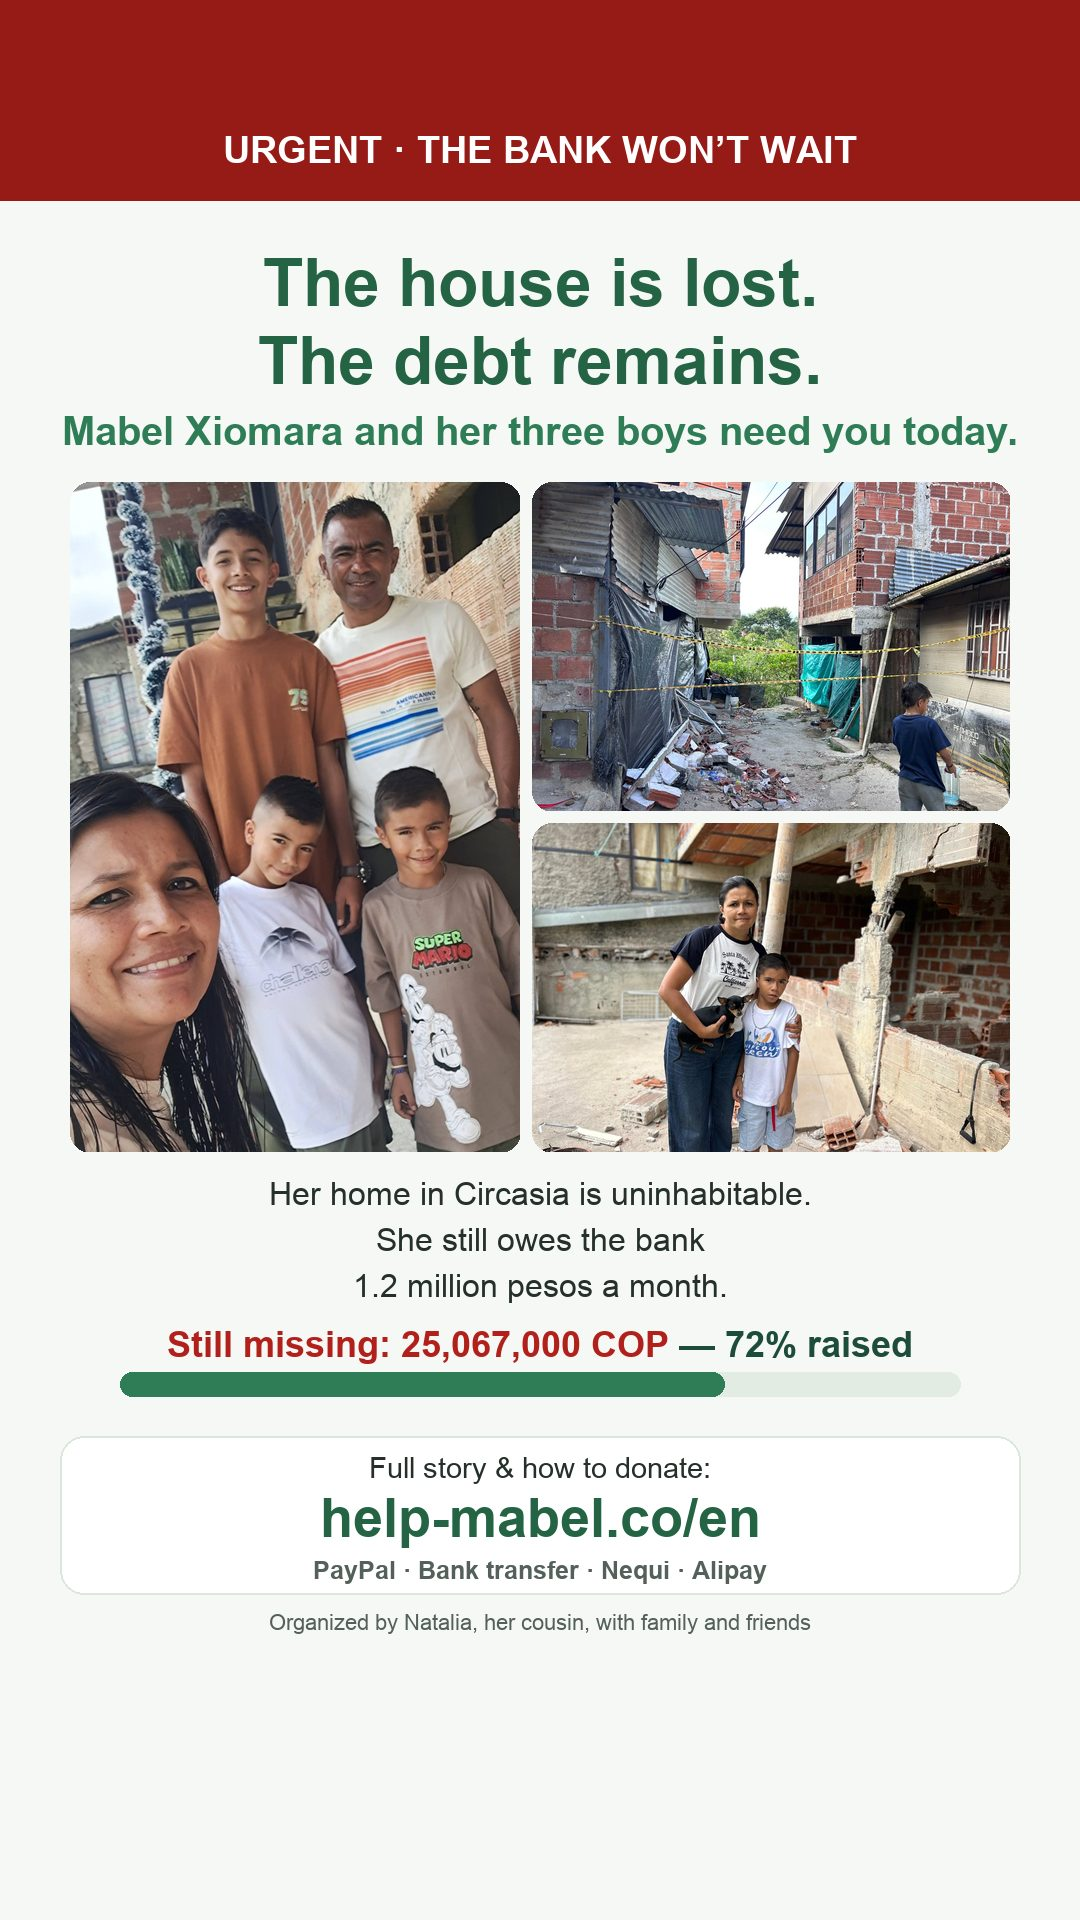
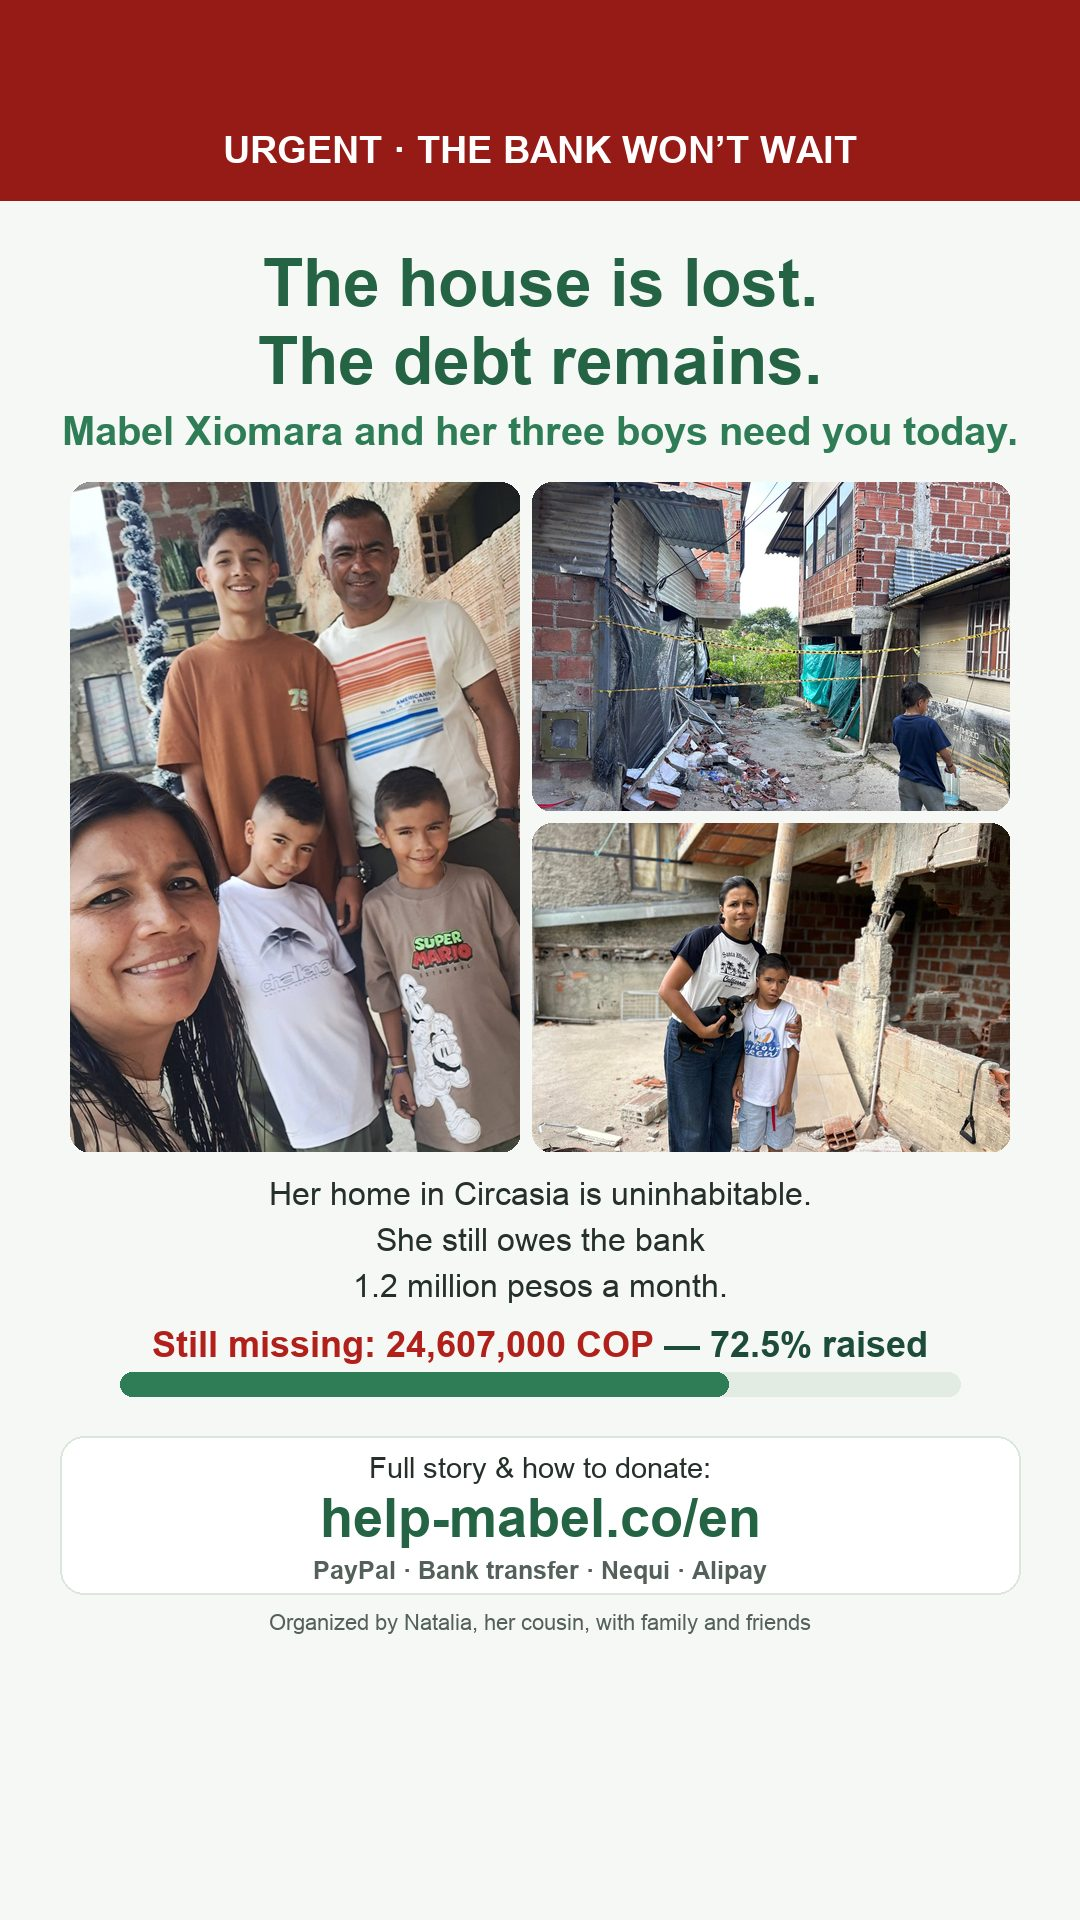
v=30: raised 64.793.000 (72,5 %; faltan $24.607.000 ≈ €6.840) — hoja del 26-ago, donaciones locales en Colombia; 12 gráficos regenerados incl. stories (?v=9)

Changed region(s): [[0.1222, 0.6875, 0.6111, 0.7188], [0.6417, 0.6875, 0.8556, 0.7188]]

diff --git a/de/index.html b/de/index.html
@@ -107,10 +107,10 @@
 </header>
 
 <div class="progress-card">
-  <div class="raised">Noch <span id="ms-remaining">6.970 € (25.067.000 COP)</span> bis <span id="ms-label">Mabel schuldenfrei ist</span></div>
-  <div class="bar"><div class="fill" id="bar-fill" style="width:72%"></div></div>
-  <div class="goal-note" id="ms-line"><strong>72 % des Weges</strong> zum nächsten Ziel: 89.400.000 COP</div>
-  <div class="goal-note" id="total-line" style="margin-top:6px">Gemeinsam haben wir schon <span id="raised-pct">72 %</span> der <span id="first-goal">89,4 Millionen COP (≈ 24.850 €)</span> zusammen — es fehlen noch <span id="total-remaining">25,1 Millionen COP (≈ 6.970 €)</span>, damit Mabel Xiomara ohne Schulden neu anfangen kann.</div>
+  <div class="raised">Noch <span id="ms-remaining">6.840 € (24.607.000 COP)</span> bis <span id="ms-label">Mabel schuldenfrei ist</span></div>
+  <div class="bar"><div class="fill" id="bar-fill" style="width:72.5%"></div></div>
+  <div class="goal-note" id="ms-line"><strong>72,5 % des Weges</strong> zum nächsten Ziel: 89.400.000 COP</div>
+  <div class="goal-note" id="total-line" style="margin-top:6px">Gemeinsam haben wir schon <span id="raised-pct">72,5 %</span> der <span id="first-goal">89,4 Millionen COP (≈ 24.850 €)</span> zusammen — es fehlen noch <span id="total-remaining">24,6 Millionen COP (≈ 6.840 €)</span>, damit Mabel Xiomara ohne Schulden neu anfangen kann.</div>
 </div>
 
 <a class="btn" href="#spenden">💚 Ich möchte spenden</a>
@@ -493,7 +493,7 @@ einen Chat oder deine Moments（朋友圈）ein und sende sie.</p>
 
 <div class="sticky"><a class="btn" href="#spenden">💚 Jetzt spenden</a></div>
 
-<script src="../data.js?v=29"></script>
+<script src="../data.js?v=30"></script>
 <script>
 (function(){
   var c = window.CAMPAIGN; if (!c) return;
@@ -519,7 +519,7 @@ einen Chat oder deine Moments（朋友圈）ein und sende sie.</p>
 function shareStory(el){
   var orig = el.textContent;
   el.textContent = "Bild wird vorbereitet…";
-  fetch("../img/story-de.jpg?v=8").then(function(r){ return r.blob(); }).then(function(b){
+  fetch("../img/story-de.jpg?v=9").then(function(r){ return r.blob(); }).then(function(b){
     var f = new File([b], "hilfe-mabel.jpg", {type: "image/jpeg"});
     if (navigator.canShare && navigator.canShare({files: [f]})) {
       navigator.share({files: [f], text: "Das Haus von Mabel Xiomara in Kolumbien ist durch das Erdbeben verloren, aber die Bankschulden bleiben. So kannst du helfen: https://help-mabel.co/de/"})
@@ -527,9 +527,9 @@ function shareStory(el){
         .catch(function(){ el.textContent = orig; });
     } else {
       el.textContent = "Speichere das Bild und poste es in deiner Story 📲";
-      window.open("../img/story-de.jpg?v=8", "_blank");
+      window.open("../img/story-de.jpg?v=9", "_blank");
     }
-  }).catch(function(){ el.textContent = orig; window.open("../img/story-de.jpg?v=8", "_blank"); });
+  }).catch(function(){ el.textContent = orig; window.open("../img/story-de.jpg?v=9", "_blank"); });
   return false;
 }
 function copyText(t, el, ok){

diff --git a/en/index.html b/en/index.html
@@ -107,10 +107,10 @@
 </header>
 
 <div class="progress-card">
-  <div class="raised"><span id="ms-remaining">€6,970 (25,067,000 COP)</span> still needed for <span id="ms-label">clearing the whole debt</span></div>
-  <div class="bar"><div class="fill" id="bar-fill" style="width:72%"></div></div>
-  <div class="goal-note" id="ms-line"><strong>72% of the way</strong> to the next goal: 89,400,000 COP</div>
-  <div class="goal-note" id="total-line" style="margin-top:6px">Together we have already raised <span id="raised-pct">72%</span> of the <span id="first-goal">89.4 million COP (≈ €24,850)</span> — <span id="total-remaining">25.1 million COP (≈ €6,970)</span> to go for Mabel Xiomara to get a fresh start, free of debt.</div>
+  <div class="raised"><span id="ms-remaining">€6,840 (24,607,000 COP)</span> still needed for <span id="ms-label">clearing the whole debt</span></div>
+  <div class="bar"><div class="fill" id="bar-fill" style="width:72.5%"></div></div>
+  <div class="goal-note" id="ms-line"><strong>72.5% of the way</strong> to the next goal: 89,400,000 COP</div>
+  <div class="goal-note" id="total-line" style="margin-top:6px">Together we have already raised <span id="raised-pct">72.5%</span> of the <span id="first-goal">89.4 million COP (≈ €24,850)</span> — <span id="total-remaining">24.6 million COP (≈ €6,840)</span> to go for Mabel Xiomara to get a fresh start, free of debt.</div>
 </div>
 
 <a class="btn" href="#donate">💚 I want to donate</a>
@@ -482,7 +482,7 @@ chat or your Moments（朋友圈）and send.</p>
 
 <div class="sticky"><a class="btn" href="#donate">💚 Donate now</a></div>
 
-<script src="../data.js?v=29"></script>
+<script src="../data.js?v=30"></script>
 <script>
 (function(){
   var c = window.CAMPAIGN; if (!c) return;
@@ -508,7 +508,7 @@ chat or your Moments（朋友圈）and send.</p>
 function shareStory(el){
   var orig = el.textContent;
   el.textContent = "Preparing image…";
-  fetch("../img/story-en.jpg?v=8").then(function(r){ return r.blob(); }).then(function(b){
+  fetch("../img/story-en.jpg?v=9").then(function(r){ return r.blob(); }).then(function(b){
     var f = new File([b], "help-mabel.jpg", {type: "image/jpeg"});
     if (navigator.canShare && navigator.canShare({files: [f]})) {
       navigator.share({files: [f], text: "Mabel Xiomara's home in Colombia was lost in the earthquake, but the bank debt remains. How to help: https://help-mabel.co/en/"})
@@ -516,9 +516,9 @@ function shareStory(el){
         .catch(function(){ el.textContent = orig; });
     } else {
       el.textContent = "Save the image and post it to your story 📲";
-      window.open("../img/story-en.jpg?v=8", "_blank");
+      window.open("../img/story-en.jpg?v=9", "_blank");
     }
-  }).catch(function(){ el.textContent = orig; window.open("../img/story-en.jpg?v=8", "_blank"); });
+  }).catch(function(){ el.textContent = orig; window.open("../img/story-en.jpg?v=9", "_blank"); });
   return false;
 }
 function copyText(t, el, ok){

diff --git a/index.html b/index.html
@@ -123,10 +123,10 @@
 </header>
 
 <div class="progress-card">
-  <div class="raised">Faltan <span id="ms-remaining">$25.067.000</span> para <span id="ms-label">quedar libre de deuda</span></div>
-  <div class="bar"><div class="fill" id="bar-fill" style="width:72%"></div></div>
-  <div class="goal-note" id="ms-line"><strong>72 % del camino</strong> a la próxima meta: $89.400.000</div>
-  <div class="goal-note" id="total-line" style="margin-top:6px">Entre todos ya reunimos el <span id="raised-pct">72 %</span> de los <span id="first-goal">$89,4 millones</span> — faltan <span id="total-remaining">$25,1 millones</span> para que Mabel Xiomara pueda empezar de nuevo, libre de deudas.</div>
+  <div class="raised">Faltan <span id="ms-remaining">$24.607.000</span> para <span id="ms-label">quedar libre de deuda</span></div>
+  <div class="bar"><div class="fill" id="bar-fill" style="width:72.5%"></div></div>
+  <div class="goal-note" id="ms-line"><strong>72,5 % del camino</strong> a la próxima meta: $89.400.000</div>
+  <div class="goal-note" id="total-line" style="margin-top:6px">Entre todos ya reunimos el <span id="raised-pct">72,5 %</span> de los <span id="first-goal">$89,4 millones</span> — faltan <span id="total-remaining">$24,6 millones</span> para que Mabel Xiomara pueda empezar de nuevo, libre de deudas.</div>
 </div>
 
 <a class="btn" href="#donar">💚 Quiero donar</a>
@@ -498,7 +498,7 @@ un chat o en Momentos（朋友圈）y envíalo.</p>
 
 <div class="sticky"><a class="btn" href="#donar">💚 Donar ahora</a></div>
 
-<script src="data.js?v=29"></script>
+<script src="data.js?v=30"></script>
 <script>
 (function(){
   var c = window.CAMPAIGN; if (!c) return;
@@ -526,7 +526,7 @@ un chat o en Momentos（朋友圈）y envíalo.</p>
 function shareStory(el){
   var orig = el.textContent;
   el.textContent = "Preparando imagen…";
-  fetch("img/story-es.jpg?v=8").then(function(r){ return r.blob(); }).then(function(b){
+  fetch("img/story-es.jpg?v=9").then(function(r){ return r.blob(); }).then(function(b){
     var f = new File([b], "ayuda-mabel.jpg", {type: "image/jpeg"});
     if (navigator.canShare && navigator.canShare({files: [f]})) {
       navigator.share({files: [f], text: "La casa de Mabel Xiomara en Circasia se perdió en el terremoto, pero la deuda con el banco sigue. Cómo ayudar: https://help-mabel.co"})
@@ -534,9 +534,9 @@ function shareStory(el){
         .catch(function(){ el.textContent = orig; });
     } else {
       el.textContent = "Guarda la imagen y súbela a tu estado 📲";
-      window.open("img/story-es.jpg?v=8", "_blank");
+      window.open("img/story-es.jpg?v=9", "_blank");
     }
-  }).catch(function(){ el.textContent = orig; window.open("img/story-es.jpg?v=8", "_blank"); });
+  }).catch(function(){ el.textContent = orig; window.open("img/story-es.jpg?v=9", "_blank"); });
   return false;
 }
 function copyText(t, el, ok){

diff --git a/wechat/index.html b/wechat/index.html
@@ -56,10 +56,10 @@
   The goal: clearing the whole 89.4-million-COP debt.</p>
 
   <div class="progress-card">
-    <div class="raised"><span id="ms-remaining">25,067,000 COP</span> still needed for <span id="ms-label">clearing the whole debt</span></div>
-    <div class="bar"><div class="fill" id="bar-fill" style="width:72%"></div></div>
-    <div class="goal-note" id="ms-line"><strong>72% of the way</strong> to the next goal: 89,400,000 COP</div>
-    <div class="goal-note" style="margin-top:6px">Together we have already raised <span id="raised-pct">72%</span> of the <span id="first-goal">89.4 million COP</span> — <span id="total-remaining">25.1 million COP</span> to go for Mabel Xiomara to get a fresh start, free of debt.</div>
+    <div class="raised"><span id="ms-remaining">24,607,000 COP</span> still needed for <span id="ms-label">clearing the whole debt</span></div>
+    <div class="bar"><div class="fill" id="bar-fill" style="width:72.5%"></div></div>
+    <div class="goal-note" id="ms-line"><strong>72.5% of the way</strong> to the next goal: 89,400,000 COP</div>
+    <div class="goal-note" style="margin-top:6px">Together we have already raised <span id="raised-pct">72.5%</span> of the <span id="first-goal">89.4 million COP</span> — <span id="total-remaining">24.6 million COP</span> to go for Mabel Xiomara to get a fresh start, free of debt.</div>
   </div>
 
   <p>Alipay donations are received by <strong>Natalia</strong>, Mabel Xiomara's cousin,
@@ -84,7 +84,7 @@
   <p class="note">Questions? Write to us: <a href="#" onclick="var m=['nataliavallejomoreno','gmail.com'].join('@');this.textContent=m;this.href='mailto:'+m;this.onclick=null;return false" style="color:var(--green-deep)">show contact email</a></p>
 </main>
 
-<script src="../data.js?v=29"></script>
+<script src="../data.js?v=30"></script>
 <script>
 (function(){
   var c = window.CAMPAIGN; if (!c) return;

diff --git a/data.js b/data.js
@@ -2,9 +2,9 @@
 // OJO: tras CUALQUIER cambio en este archivo, subir el número de versión (?v=N)
 // en las etiquetas <script src="data.js?v=N"> de las 4 páginas — mientras el
 // Browser Cache TTL de Cloudflare siga en 4h, es la única forma de que los
-// navegadores con caché vieja carguen el archivo nuevo. Versión actual: v=29 (v=16 y v=17 quedaron cacheados con contenido viejo en Cloudflare el 17-ago: alguien pidió las URLs versionadas antes del push).
+// navegadores con caché vieja carguen el archivo nuevo. Versión actual: v=30 (v=16 y v=17 quedaron cacheados con contenido viejo en Cloudflare el 17-ago: alguien pidió las URLs versionadas antes del push).
 window.CAMPAIGN = {
-  raised: 64333000,             // COP recaudados (tabla de la familia sin las filas de costos + PayPal €192 + Wise A$500 + China ¥850) — 25-ago-2026
+  raised: 64793000,             // COP recaudados (tabla de la familia sin las filas de costos + PayPal €192 + Wise A$500 + China ¥850) — 26-ago-2026
   firstGoal: 89400000,          // meta = la deuda completa (reencuadre 14-ago; hitos de 15M y 30M superados)
   monthly: 1824000,             // cuota del marco público 89,4M = 49 cuotas (desde el 21-ago la cuota real es $1.216.000 — el crédito pequeño quedó saldado; se revisará cuando el banco informe el saldo)
   copPerEur: 3597,              // tasa COP por EUR (verificada 21 ago 2026; revisar mensualmente)
